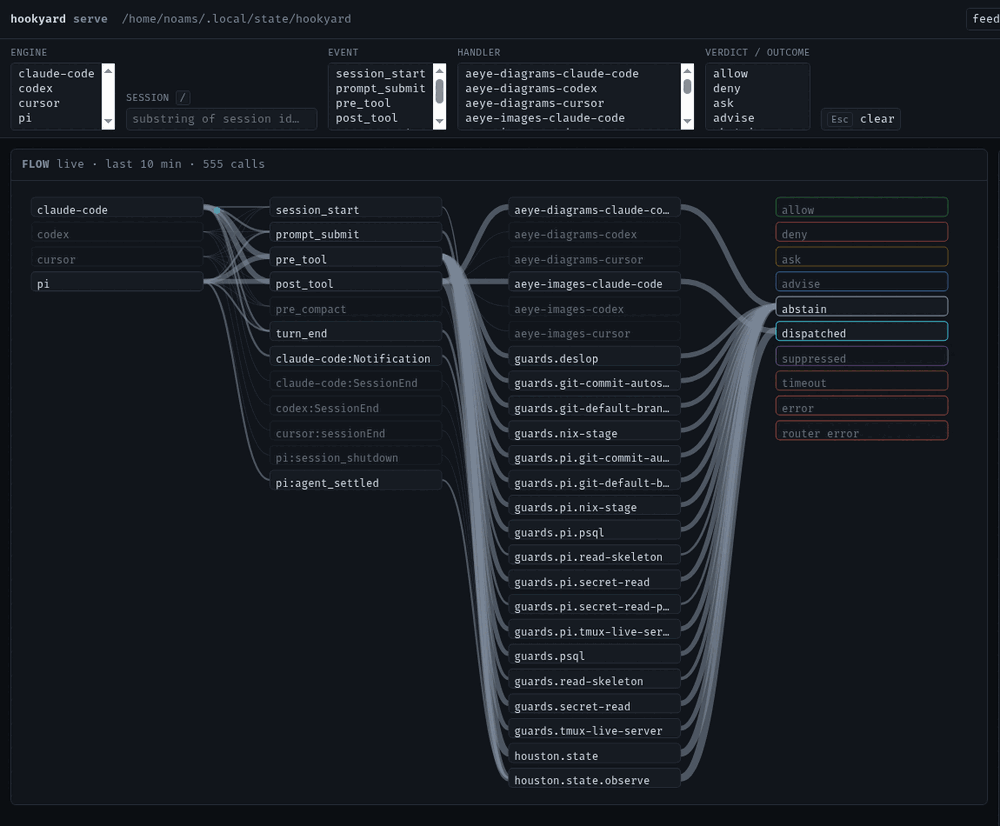
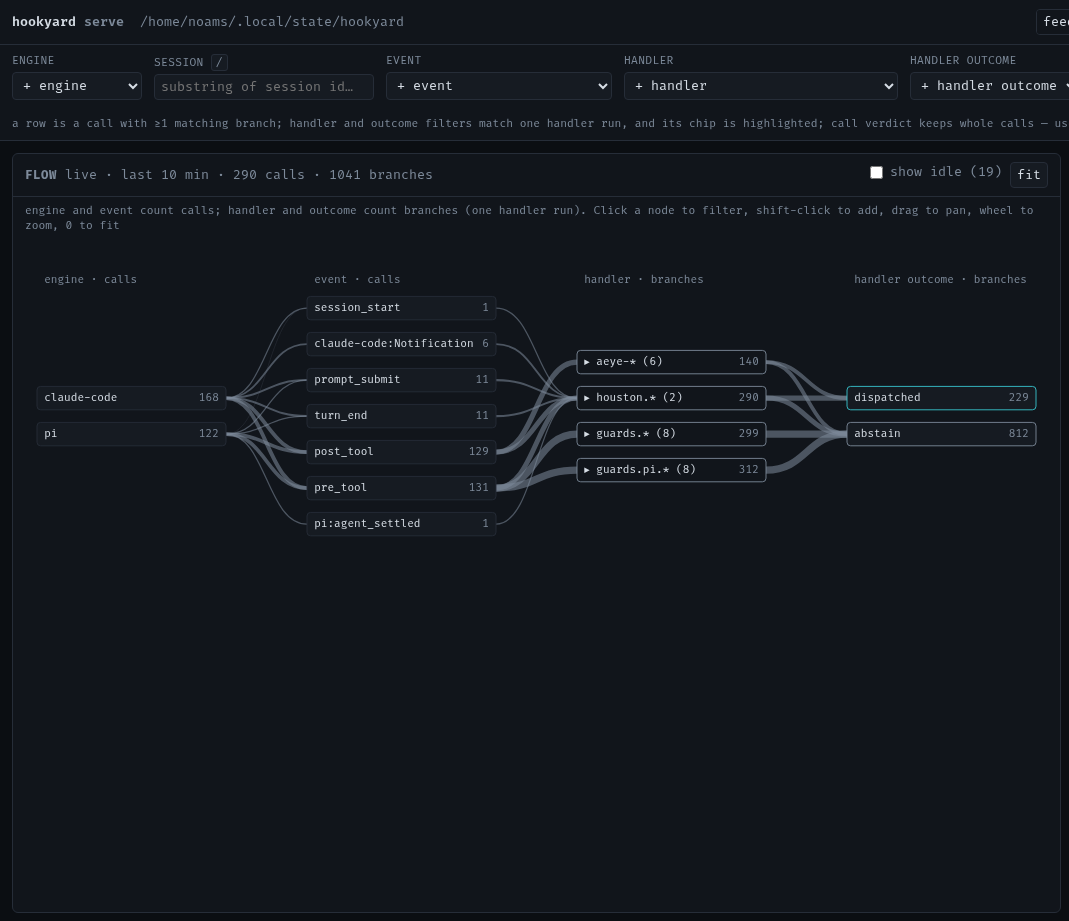
docs(serve): branch-level filters and flow exploration

diff --git a/README.md b/README.md
@@ -128,22 +128,56 @@ what actually happened.
 
 `hookyard serve [--port 7757]` opens a read-only view of the record on
 `http://127.0.0.1:7757`. It binds loopback only and loads nothing from the
-network. It has two views, and the filter bar (engine, session, event,
-handler, verdict) applies to both:
+network. It has two views, and one filter bar applies to both.
+
+**Filters.** Six fields: engine, session, event, handler, handler outcome,
+call verdict. Engine, event, handler, handler outcome and call verdict each
+have an "add" picker; session is a free-text input. Every active value shows
+as a chip (`field: value ×`) in the bar; values within a field OR, different
+fields AND. Esc or "clear" drops everything. The bar mirrors to the URL, so a
+filtered view is a shareable link.
+
+Engine, session, event and call verdict filter whole calls. Call verdict is
+the call's consolidated verdict (`allow`/`ask`/`deny`/`abstain`/`suppressed`)
+or its router status (`ok`/`error`/`timeout`) — never a handler's own
+outcome. Handler and handler outcome instead filter one handler *run* within
+a call (a "branch"): set together, they must hold on the same run, so
+`handler=guards.deslop&outcome=deny` means deslop's own deny, not "deslop ran
+and something else denied". `outcome=router-error` selects calls that never
+reached fan-out. Handler outcomes used to also match `verdict=`; they no
+longer do — use `outcome=` instead (e.g. `outcome=dispatched`).
+
+A feed row is a call with at least one matching handler run. Under a handler
+or handler-outcome filter, the row's matching handler chips are highlighted
+and the rest dimmed. The flow graph draws only the matching branches — same
+rule, same filter.
 
 - **feed** — every call, newest first, live for today and paged for past days.
 - **flow** — the pipeline as a graph, engine → event → handler → outcome.
-  The last hop is each handler's *own* outcome, not the call's consolidated
-  verdict, so a deny shows which guard denied it. Most traffic is `abstain`
-  or `dispatched`, so an unlit `allow` is expected. Router errors lead to a
-  `router error` node, and calls that no handler subscribed to go straight
-  from event to verdict along a dashed edge. A handler that ran but is no
-  longer in the installed table appears dashed. On today, edge thickness is
-  the last 10 minutes of traffic (day files are UTC, so the window starts
-  over at UTC midnight), and each live call pulses along its path. A past
-  day shows static whole-day totals.
+  Engine and event count calls; handler and handler outcome count branches
+  (one handler run), and the column headers say so. The last hop is each
+  handler's *own* outcome, not the call's consolidated verdict, so a deny
+  shows which guard denied it. Calls with no handler go straight from event
+  to their verdict (`abstain` or `suppressed`) along a dashed edge. Router
+  errors lead to a `router error` node. A handler that ran but is no longer
+  in the installed table appears dashed. On today, edge thickness is the
+  last 10 minutes of traffic (day files are UTC, so the window starts over
+  at UTC midnight), and each live call pulses along its path. A past day
+  shows static whole-day totals.
 
-![The flow view: engines, events, handlers and outcomes, with edge thickness showing the last 10 minutes of traffic](docs/serve-flow.png)
+  Handlers are grouped by id prefix (`guards.*`, `guards.pi.*`, `aeye-*`,
+  `houston.*`); click a group to expand or collapse it. A group holding a
+  filtered handler stays open; under a handler or handler-outcome filter,
+  small groups open on their own. Idle nodes (no traffic in the window) are
+  hidden; "show idle" brings them back. Wheel or pinch zoom around the
+  cursor, drag pans, a fit button and `+`/`-`/`0` do the same from the
+  keyboard. Hovering a node highlights every path through it with a tooltip
+  of counts. Clicking a node filters by it — shift/ctrl-click adds it
+  instead of replacing, and clicking an active node removes it.
+
+![The default flow view: engines, events, handlers and outcomes, with edge thickness showing the last 10 minutes of traffic](docs/serve-flow.png)
+![A handler group expanded and zoomed in, hovering a handler to trace its paths](docs/serve-flow-grouped.png)
+![Filtered to the deny outcome on a past day, showing which guards denied](docs/serve-flow-filtered.png)
 
 ### Session lifecycle for dashboards
 
